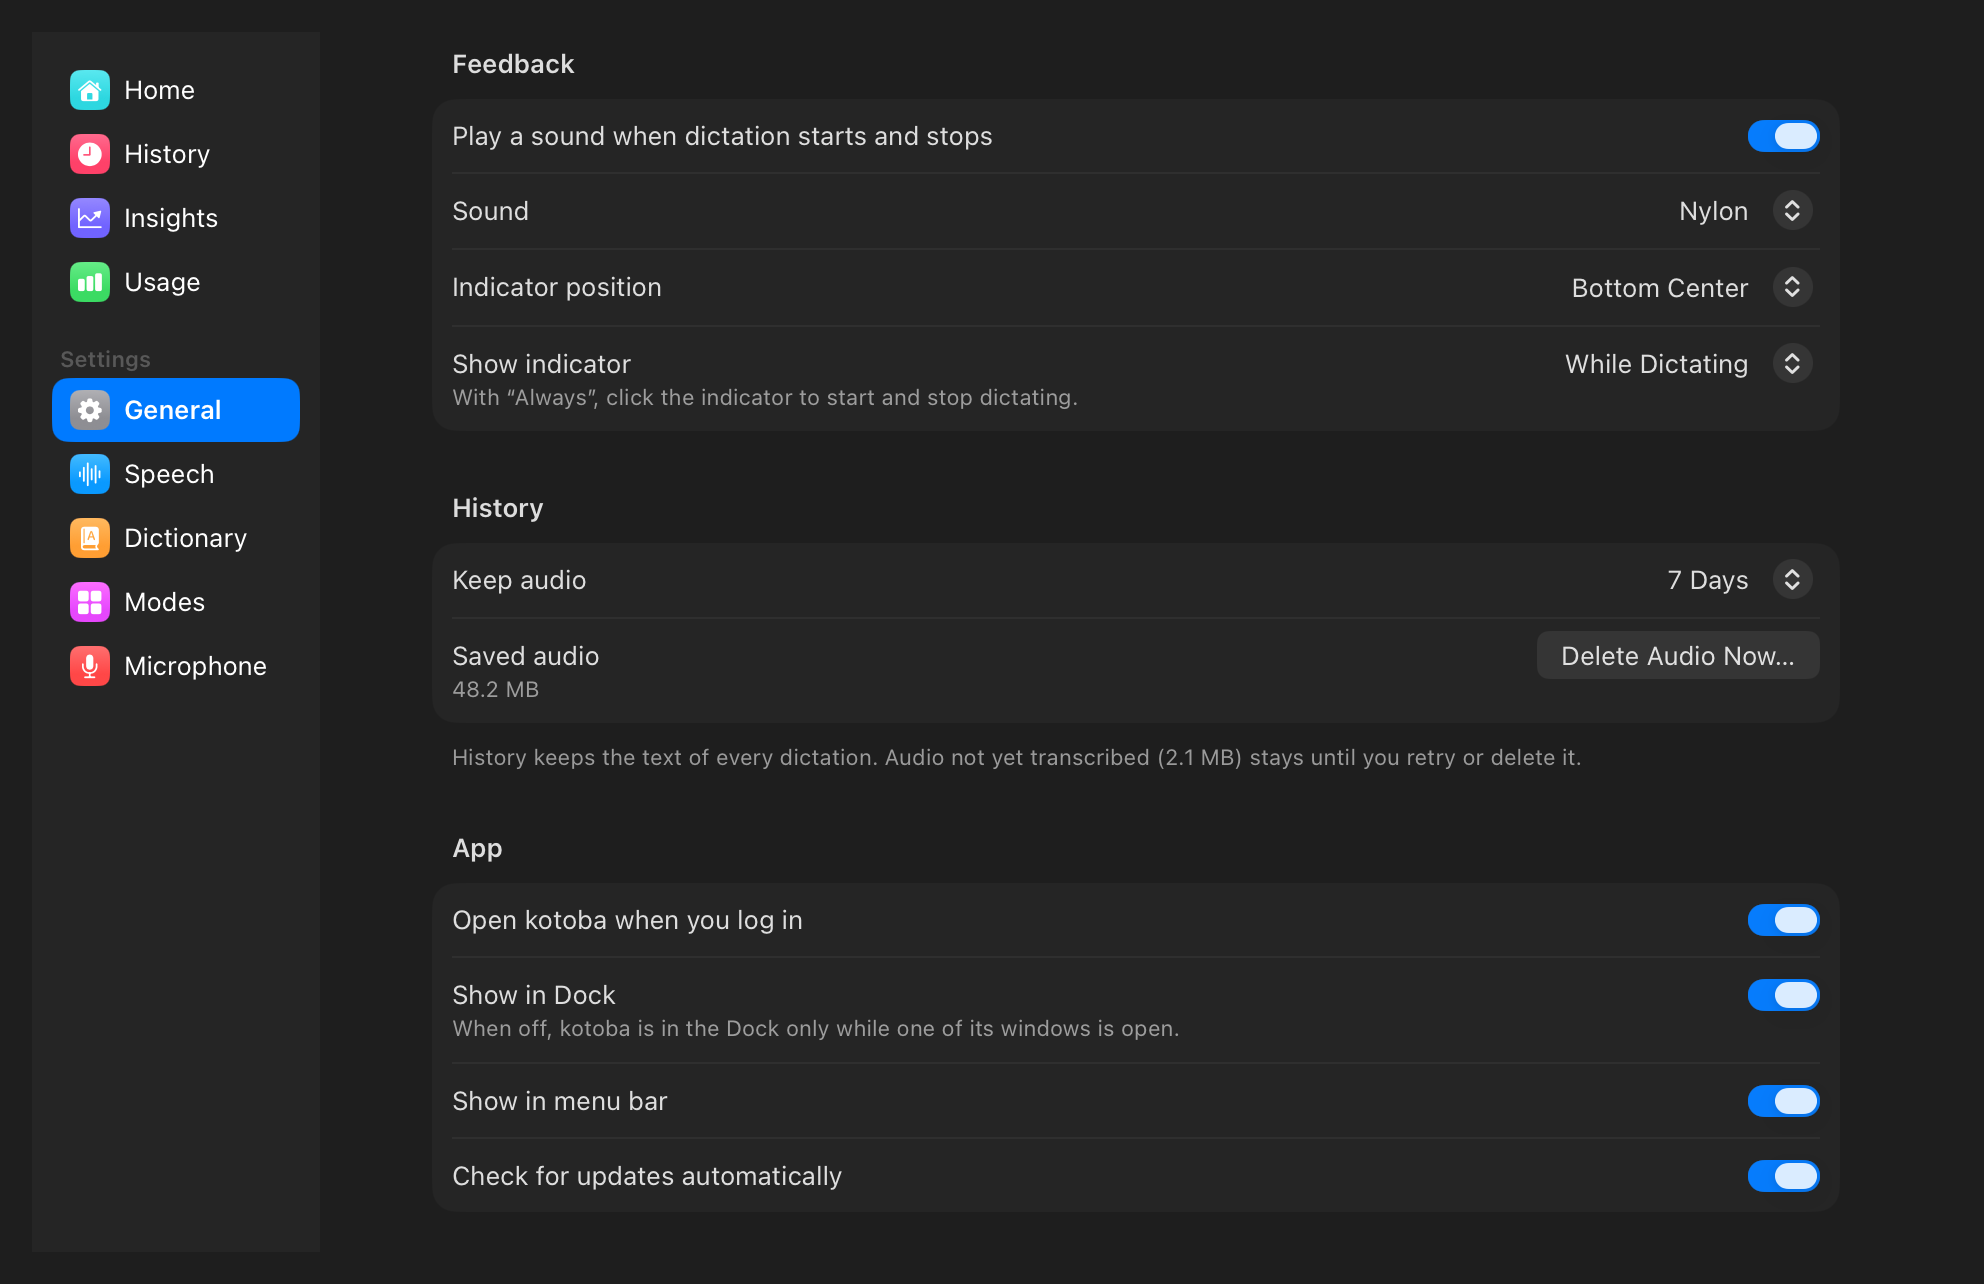
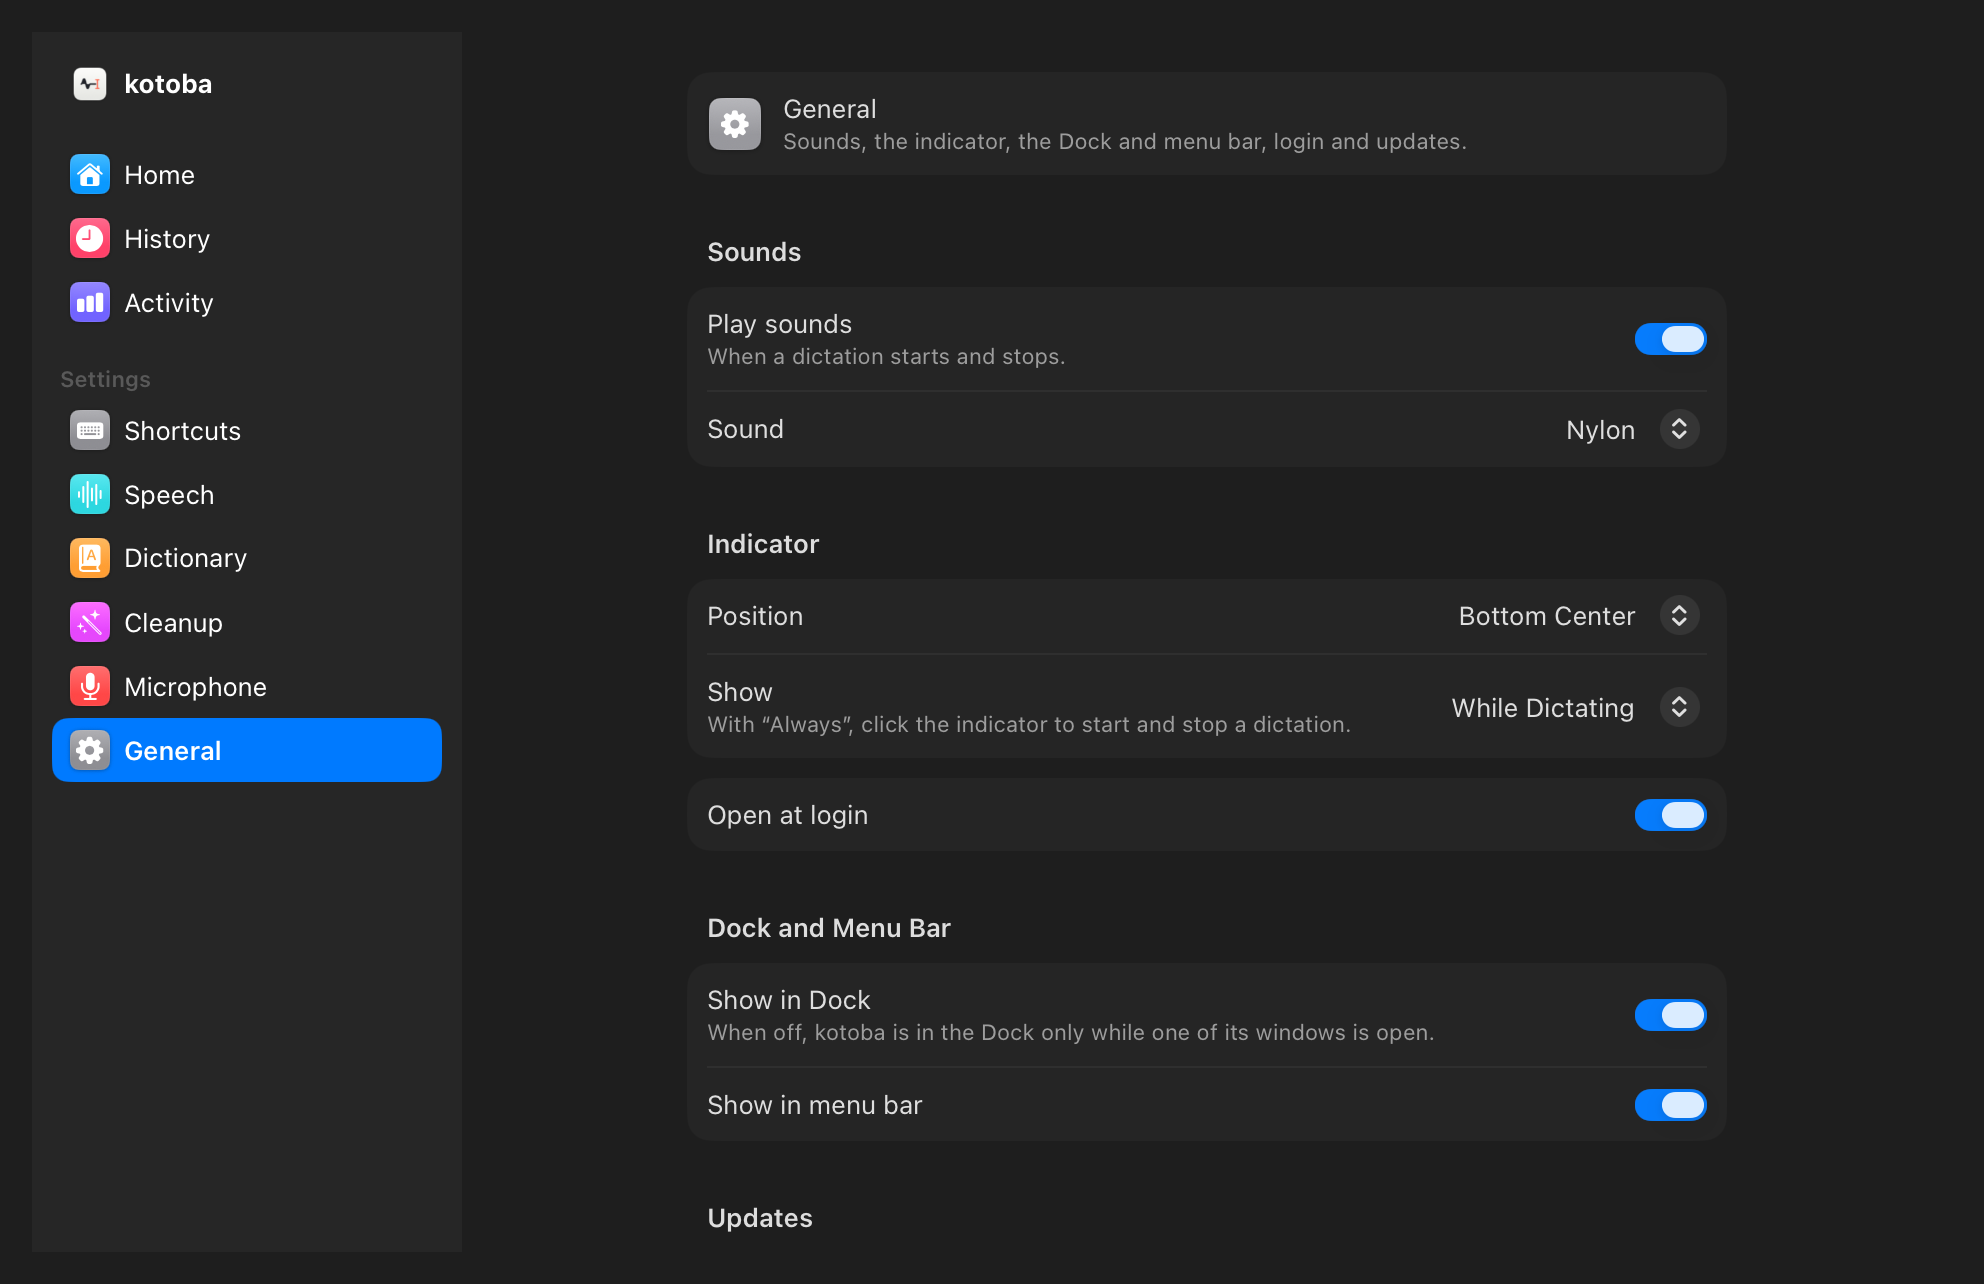
README image of General starts at the page's top, so its header shows; the README images' scroll-to-end option goes

diff --git a/App/MainWindowSnapshots.swift b/App/MainWindowSnapshots.swift
@@ -44,15 +44,10 @@ extension MainWindow {
     }
 
     /// The README images (`Pane.readmeSnapshots`, `make readme-images`): the whole window content at one size, as
-    /// `windowSnapshot` draws it.
-    /// `isScrolledToEnd` shows the end of a pane that scrolls; 610 pt high, General's end then starts at a section. The
-    /// pane's scroll bar, which shows for a moment after a scroll, is not in the image.
-    static func readmeSnapshot(
-        of panes: [Pane], selecting id: Pane.ID, named name: String, isScrolledToEnd: Bool = false
-    ) -> Snapshot {
+    /// `windowSnapshot` draws it, each page from its top, so its header shows. The pane's scroll bar is not in the image.
+    static func readmeSnapshot(of panes: [Pane], selecting id: Pane.ID, named name: String) -> Snapshot {
         var snapshot = Snapshots.fixedWindow(named: name, size: NSSize(width: 960, height: 610), check: overflow) {
             MainView(panes: panes, selection: Selection(panes: panes, showing: id), identity: .release)
-                .defaultScrollAnchor(isScrolledToEnd ? .bottom : nil)
                 .scrollIndicators(.hidden)
         }
         snapshot.scale = 2

diff --git a/App/Settings/SettingsSnapshots.swift b/App/Settings/SettingsSnapshots.swift
@@ -105,14 +105,12 @@ extension Pane {
     }
 
     /// The images in the README's "Screenshots" section, which `make readme-images` copies to docs/images: the whole
-    /// window content at one size, as the release shows it. General is scrolled to its end, for Sound, Dock and menu
-    /// bar.
+    /// window content at one size, as the release shows it, each page from its top.
     static func readmeSnapshots() -> [Snapshot] {
         let panes = samplePanes(home: .readme)
         let ids: [PaneID] = [.home, .history, .activity, .modes, .general]
         return ids.map { id in
-            MainWindow.readmeSnapshot(
-                of: panes, selecting: id, named: "readme-\(id.rawValue)", isScrolledToEnd: id == .general)
+            MainWindow.readmeSnapshot(of: panes, selecting: id, named: "readme-\(id.rawValue)")
         }
     }
 
